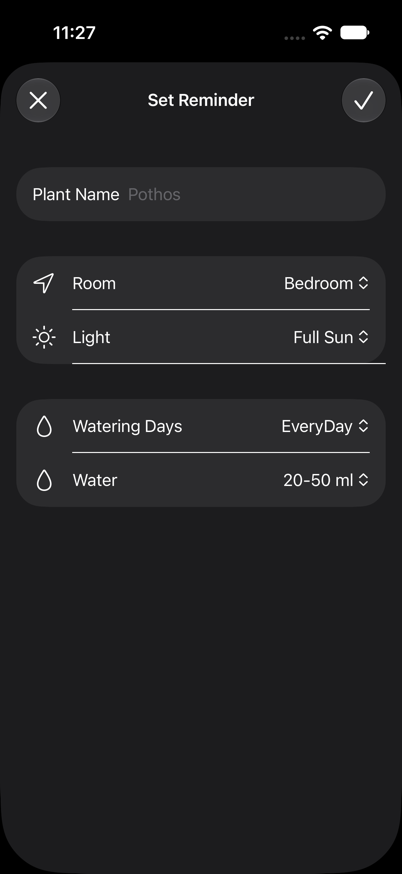
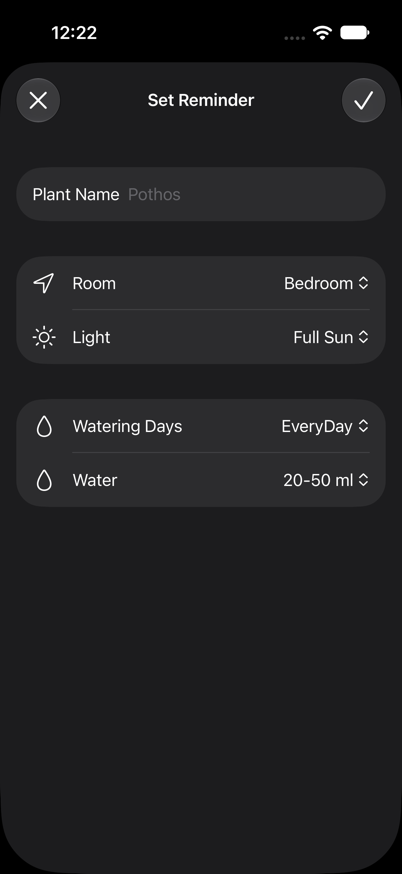
Adjust Row Seperator Color

Changed region(s): [[0.1194, 0.0309, 0.2388, 0.0618]]

diff --git a/Plants/Views/SetReminder.swift b/Plants/Views/SetReminder.swift
@@ -64,8 +64,7 @@ struct SetReminder: View {
                         }
                         .foregroundStyle(.white)
                         .listRowBackground(Color.field)
-                        .listRowSeparator(.visible, edges: .bottom)
-                        .listRowSeparatorTint(.fieldlabel)
+                        .listRowSeparatorTint(Color.rowSeperator)
                         
                         Section{
                             
@@ -89,7 +88,7 @@ struct SetReminder: View {
                             
                             
                         }
-                        .listRowSeparatorTint(.fieldlabel)
+                        .listRowSeparatorTint(Color.rowSeperator)
                         .foregroundStyle(.white)
                         .listRowBackground(Color.field)
                         if viewModel.plantID != nil {
